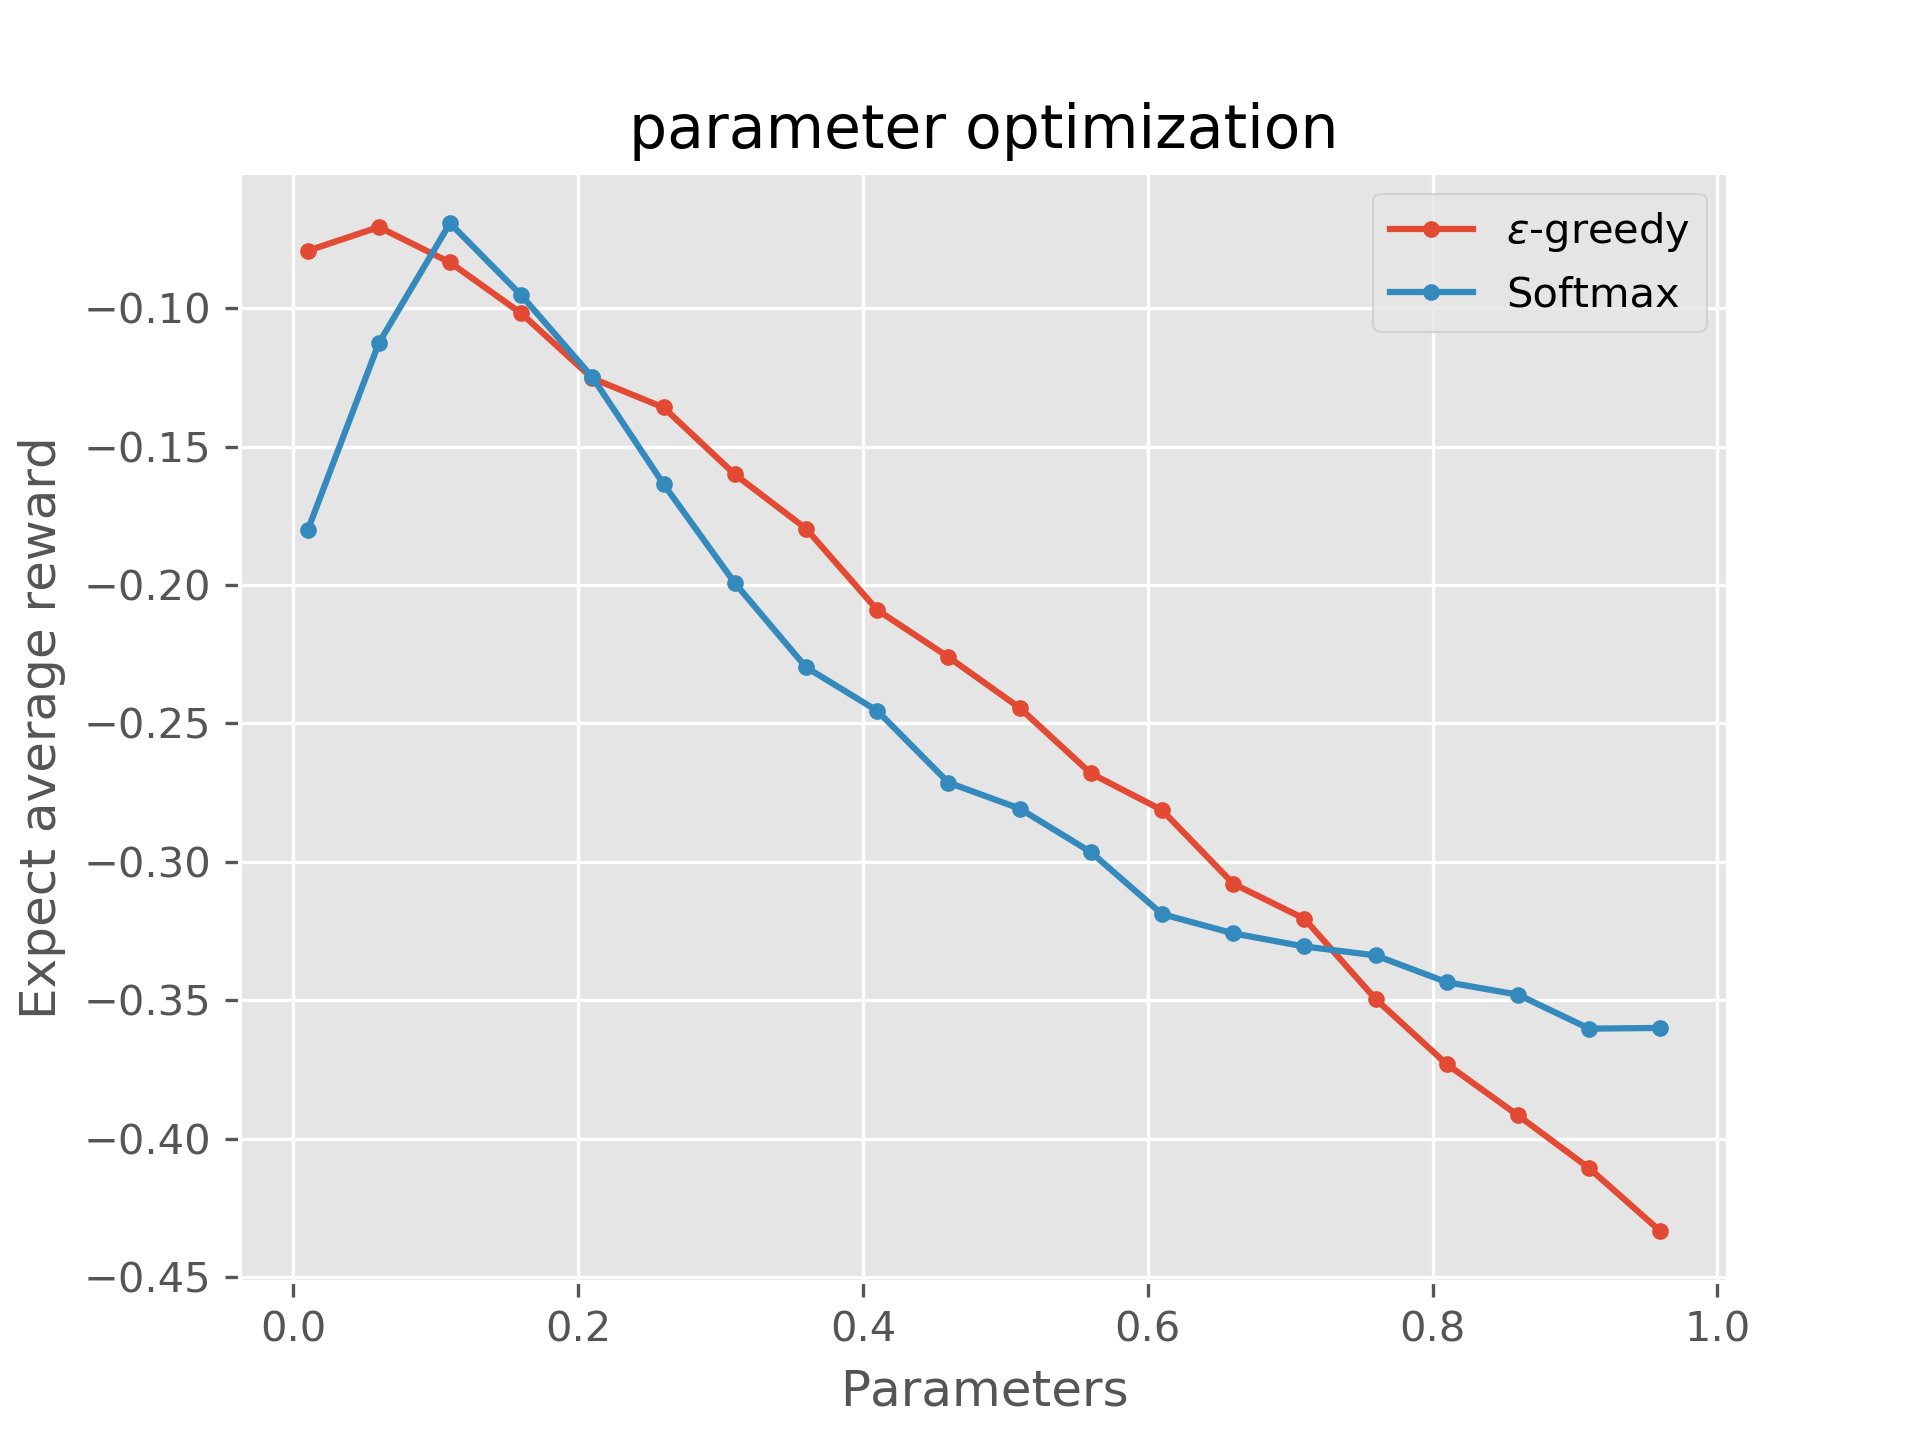
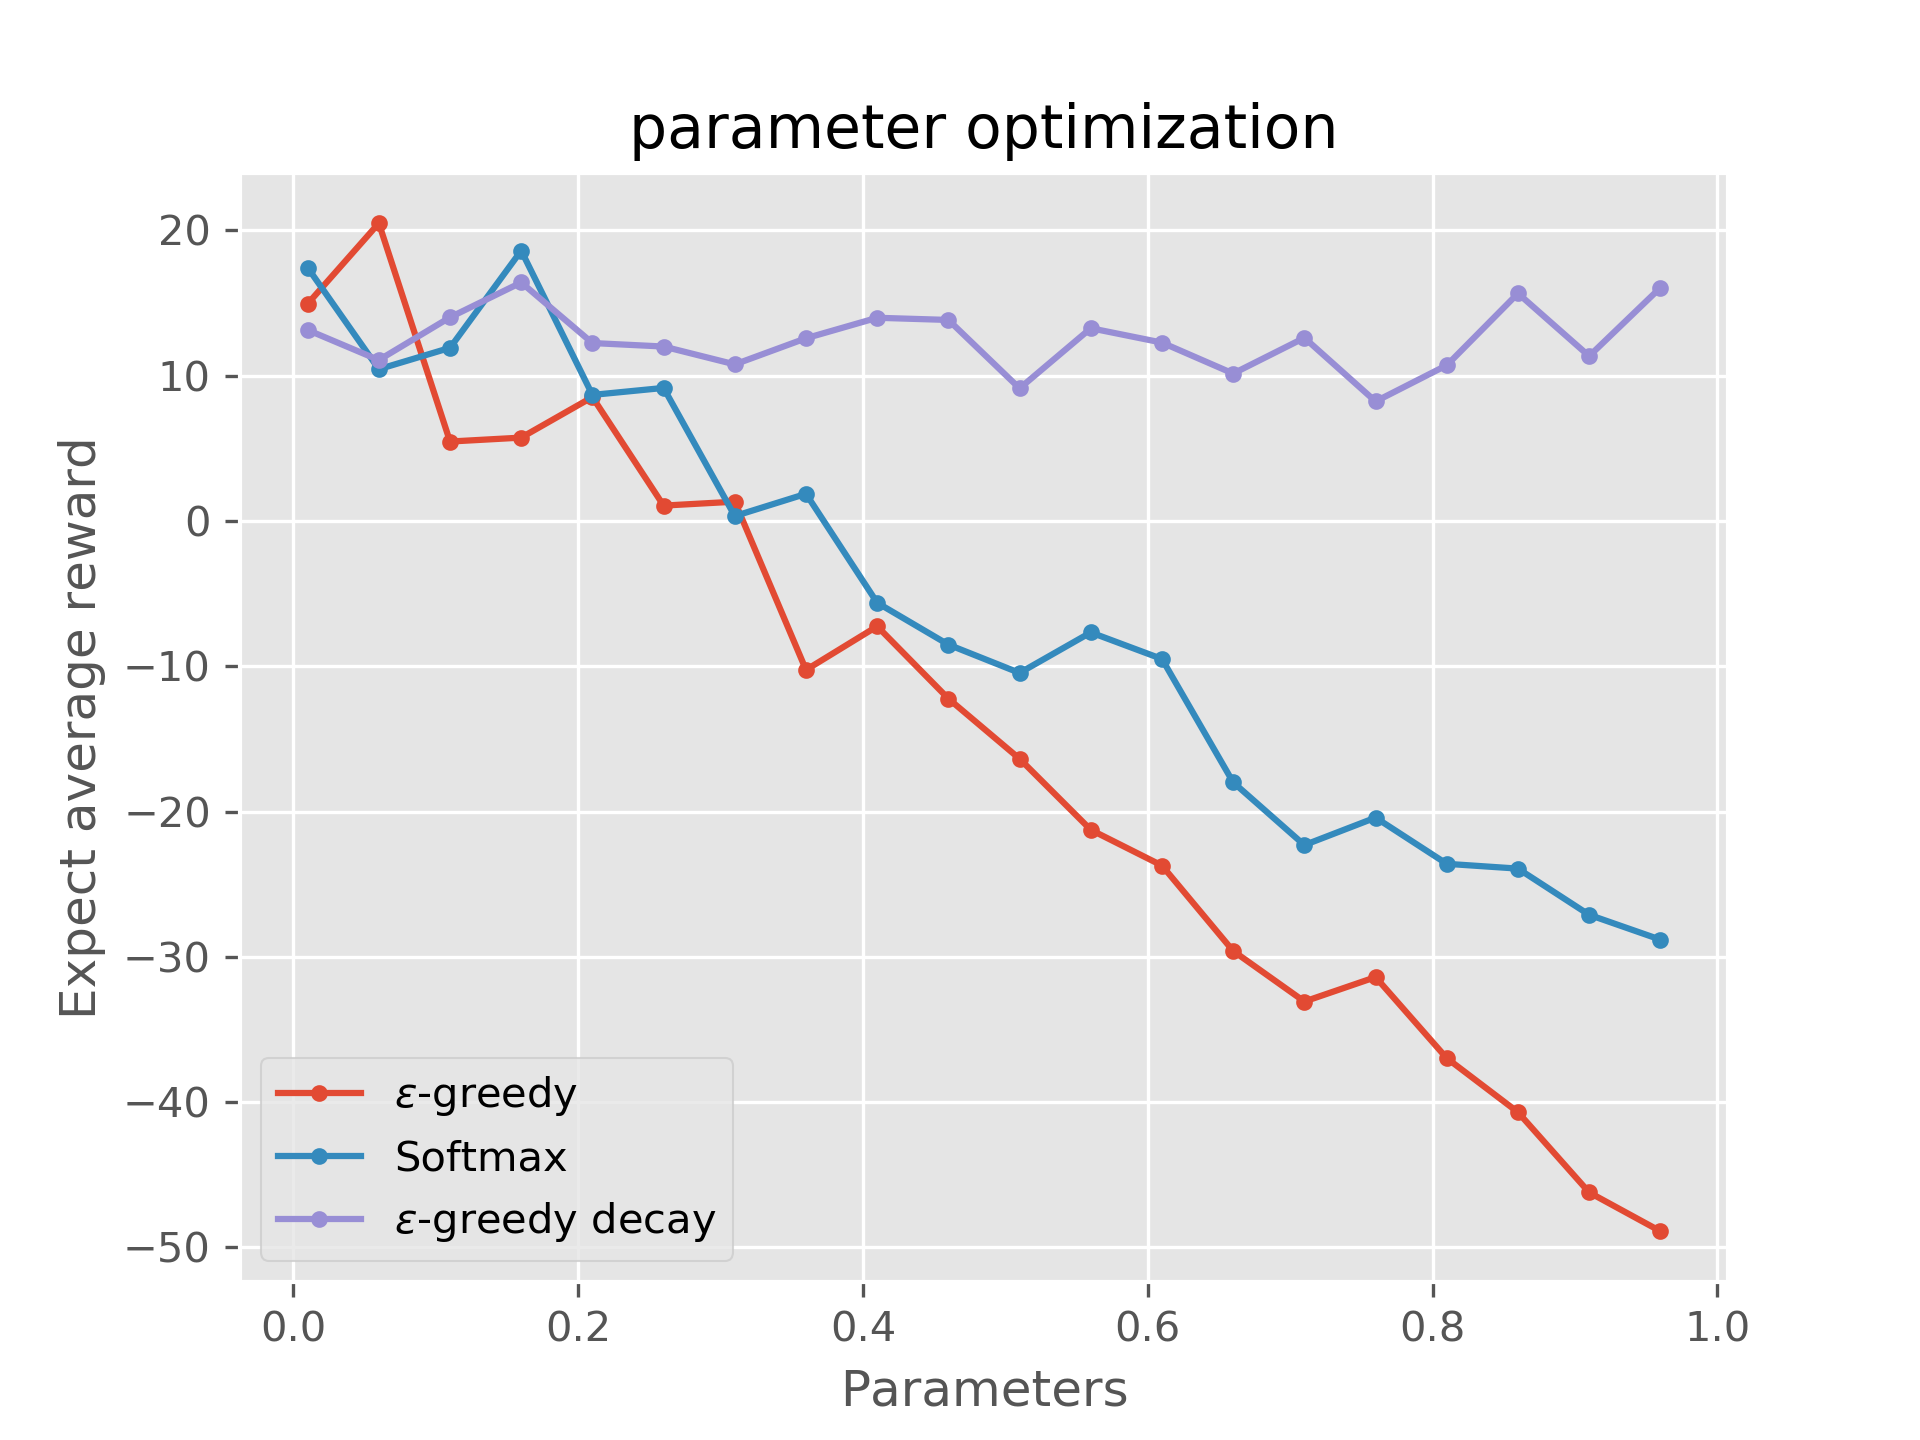
add decay method

diff --git a/k_armed_bandit/k_armed_bandit.py b/k_armed_bandit/k_armed_bandit.py
@@ -40,12 +40,12 @@ class Bandit(object):
             reward [int(default)] -- the reward of kth arm
         """
         prob = [self.distribution[choose_k], 1 - self.distribution[choose_k]]
-        reward = np.random.choice([1.5, -1], p=prob)
+        reward = np.random.choice([2, -1], p=prob)
 
         return reward
 
 
-# ------------------------ How to choose action ------------------------------
+# ------------------------- How to choose action ------------------------------
 class Action_Choose(object):
     def __init__(self, k_arm=10, parameter=0.03):
         # arm's indices
@@ -54,7 +54,7 @@ class Action_Choose(object):
         # initial action parameter
         self.parameter = parameter
 
-    def e_greedy_choose(self, q_estimate):
+    def e_greedy_choose(self, q_estimate, t):
         # e-greedy algorithm
 
         e_greedy = self.parameter
@@ -63,8 +63,8 @@ class Action_Choose(object):
         else:
             choose_k = np.argmax(q_estimate)
         return choose_k
-    
-    def softmax_choose(self, q_estimate):
+
+    def softmax_choose(self, q_estimate, t):
         # Boltzmann distribution of all k arms
 
         tau_temperature = self.parameter
@@ -81,15 +81,22 @@ class Action_Choose(object):
         choose_k = np.random.choice(self.indices, p=boltzmann_distribution)
         return choose_k
 
+    def e_greedy_decay_choose(self, q_estimate, t):
+        # e-greedy decay
+        # e_greedy = self.parameter / (t + 1)**0.5
+        e_greedy = 1 / (t + 1)**0.5
+        if np.random.rand() < e_greedy:
+            choose_k = np.random.choice(self.indices)
+        else:
+            choose_k = np.argmax(q_estimate)
+        return choose_k
+    
 
-# --------------------------- How to play -------------------------------------
+# ------------------------------ Simulate -------------------------------------
 class Simulate_Game(object):
-    def __init__(self, k_arm, reward_func, step_size, method=None):
+    def __init__(self, k_arm, reward_func, method=None):
         self.k_arm = k_arm
         self.reward_func = reward_func
-
-        # step size for each episode
-        self.step_size = step_size
 
         # choose algorithm to simulate the game
         self.action_choose = self.build_method(method)
@@ -110,45 +117,52 @@ class Simulate_Game(object):
         else:
             return method
 
-    def _default_action_method(self, parameter=None, q_estimate=None):
+    def _default_action_method(self, q_estimate=None, t=None):
         # default method to choose action in each step
         # choose action randomly
         choose_k = np.random.choice(self.indices)
         return choose_k
 
-    def simulate_loop(self):
-        # rewards = np.zeros((self.n_episode, self.step_size), dtype=np.float32)
-        # for n in range(self.n_episode):
+    def simulate_loop(self, step_size=100, n_episode=10):
 
-        # reset bandit and initial
-        self.reset_bandit()
-        cumulative_reward = 0
-        cumulative_reward_all = np.zeros((self.step_size, ), dtype=float)
-        average_reward = np.zeros((self.step_size, ), dtype=float)
+        # store n episodes result
+        n_cumulative_reward = np.zeros((n_episode, step_size), dtype=float)
+        n_mean_reward = np.zeros((n_episode, step_size), dtype=float)
 
-        # step loop
-        for t in range(self.step_size):
-            # choose k_th arm
-            choose_k = self.action_choose(self.q_estimate)
+        for i in range(n_episode):
+            # reset bandit and initial
+            self.reset_bandit()
+            cumulative_reward = 0
+            cumulative_reward_all = np.zeros((step_size, ), dtype=float)
+            average_reward = np.zeros((step_size, ), dtype=float)
 
-            # obtain immediate reward
-            immediate_value = self.reward_func(choose_k)
+            # step loop
+            for t in range(step_size):
+                # choose k_th arm
+                choose_k = self.action_choose(self.q_estimate, t)
 
-            # record average reward
-            cumulative_reward += immediate_value
-            cumulative_reward_all[t] = cumulative_reward
-            average_reward[t] = cumulative_reward / (t + 1)
+                # obtain immediate reward
+                immediate_value = self.reward_func(choose_k)
 
-            # update q estimate function average reward
-            self.count_arm_k[choose_k] += 1
-            self.q_estimate[choose_k] += \
-                (immediate_value - self.q_estimate[choose_k]) / self.count_arm_k[choose_k]
-            
-        return cumulative_reward_all, average_reward
+                # record average reward
+                cumulative_reward += immediate_value
+                cumulative_reward_all[t] = cumulative_reward
+                average_reward[t] = cumulative_reward / (t + 1)
+
+                # update q estimate function average reward
+                self.count_arm_k[choose_k] += 1
+                self.q_estimate[choose_k] += \
+                    (immediate_value - self.q_estimate[choose_k]) / self.count_arm_k[choose_k]
+
+            n_cumulative_reward[i, :] = cumulative_reward_all
+            n_mean_reward[i, :] = average_reward
+
+        # return shape: [1, step_size]; [1, step_size]
+        return np.mean(n_mean_reward, axis=0), np.mean(n_cumulative_reward, axis=0)
 
 
 # ------------------------- Test and Optimize ---------------------------------
-def e_greedy_simulate_main():
+def e_greedy_simulate_main(step_size=2000, n_epiosde=100):
     # load k_armed bandit
     bandit = Bandit()
     k_arm = bandit.k_arm
@@ -159,32 +173,21 @@ def e_greedy_simulate_main():
     action_choose = Action_Choose(k_arm, parameter=e_greedy)
     algorithm = action_choose.e_greedy_choose
 
-    # simulation parameters
-    step_size = 1000
-    simulate_g = Simulate_Game(k_arm, reward_func, step_size, method=algorithm)
-
-    # main loop
-    n_episode = 100
-    n_cumulative_reward = np.zeros((n_episode, step_size), dtype=float)
-    n_mean_reward = np.zeros((n_episode, step_size), dtype=float)
-    for i in range(n_episode):
-        cumulative_reward, mean_reward = simulate_g.simulate_loop()
-        n_cumulative_reward[i, :] = cumulative_reward
-        n_mean_reward[i, :] = mean_reward
+    # simulation
+    simulator = Simulate_Game(k_arm, reward_func, method=algorithm)
+    mean_reward, cumulative_reward = simulator.simulate_loop(step_size, n_epiosde)
 
     # pictures
     plt.style.use('ggplot')
     plt.tight_layout()
     fig = plt.figure()
     ax1 = fig.add_subplot(111)
-    p1 = ax1.plot(np.mean(n_mean_reward, axis=0), '.', 
-                  color='r', label=f'average')
+    p1 = ax1.plot(mean_reward, '.', color='r', label=f'average')
     ax1.set_title(f'$\epsilon$-greedy Algorithm ($\epsilon$={action_choose.parameter})')
     ax1.set_ylabel('T-step Average Reward')
     ax1.set_xlabel('T-steps')
     ax2 = ax1.twinx()
-    p2 = ax2.plot(np.mean(n_cumulative_reward, axis=0), '.', 
-                  color='b', label='cumulative')
+    p2 = ax2.plot(cumulative_reward, '.', color='b', label='cumulative')
     ax2.set_ylabel('Cumulative Reward')
     
     # legend
@@ -197,7 +200,7 @@ def e_greedy_simulate_main():
     plt.close()
 
 
-def softmax_simulate_main():
+def softmax_simulate_main(step_size=2000, n_epiosde=100):
     # load k_armed bandit
     bandit = Bandit()
     k_arm = bandit.k_arm
@@ -208,32 +211,21 @@ def softmax_simulate_main():
     action_choose = Action_Choose(k_arm, parameter=tau)
     algorithm = action_choose.softmax_choose
 
-    # simulation parameters
-    step_size = 1000
-    simulate_g = Simulate_Game(k_arm, reward_func, step_size, method=algorithm)
-
-    # main loop
-    n_episode = 100
-    n_cumulative_reward = np.zeros((n_episode, step_size), dtype=float)
-    n_mean_reward = np.zeros((n_episode, step_size), dtype=float)
-    for i in range(n_episode):
-        cumulative_reward, mean_reward = simulate_g.simulate_loop()
-        n_cumulative_reward[i, :] = cumulative_reward
-        n_mean_reward[i, :] = mean_reward
+    # simulation
+    simulator = Simulate_Game(k_arm, reward_func, method=algorithm)
+    mean_reward, cumulative_reward = simulator.simulate_loop(step_size, n_epiosde)
 
     # pictures
     plt.style.use('ggplot')
     plt.tight_layout()
     fig = plt.figure()
     ax1 = fig.add_subplot(111)
-    p1 = ax1.plot(np.mean(n_mean_reward, axis=0), '.', 
-                  color='r', label=f'average')
+    p1 = ax1.plot(mean_reward, '.', color='r', label=f'average')
     ax1.set_title(f'Softmax Algorithm ($\\tau$={action_choose.parameter})')
     ax1.set_ylabel('T-step Average Reward')
     ax1.set_xlabel('T-steps')
     ax2 = ax1.twinx()
-    p2 = ax2.plot(np.mean(n_cumulative_reward, axis=0), '.', 
-                  color='b', label='cumulative')
+    p2 = ax2.plot(cumulative_reward, '.', color='b', label='cumulative')
     ax2.set_ylabel('Cumulative Reward')
     
     # legend
@@ -246,7 +238,45 @@ def softmax_simulate_main():
     plt.close()
 
 
-def optimize_parameters_main():
+def e_greedy_decay_simulate_main(step_size=2000, n_epiosde=100):
+    # load k_armed bandit
+    bandit = Bandit()
+    k_arm = bandit.k_arm
+    reward_func = bandit.reward_func
+
+    # action chosen method
+    e_greedy = 1
+    action_choose = Action_Choose(k_arm, parameter=e_greedy)
+    algorithm = action_choose.e_greedy_decay_choose
+
+    # simulation
+    simulator = Simulate_Game(k_arm, reward_func, method=algorithm)
+    mean_reward, cumulative_reward = simulator.simulate_loop(step_size, n_epiosde)
+    print(simulator.q_estimate)
+    # pictures
+    plt.style.use('ggplot')
+    plt.tight_layout()
+    fig = plt.figure()
+    ax1 = fig.add_subplot(111)
+    p1 = ax1.plot(mean_reward, '.', color='r', label=f'average')
+    ax1.set_title(f'$\epsilon$-greedy decay Algorithm ($\epsilon$={action_choose.parameter})')
+    ax1.set_ylabel('T-step Average Reward')
+    ax1.set_xlabel('T-steps')
+    ax2 = ax1.twinx()
+    p2 = ax2.plot(cumulative_reward, '.', color='b', label='cumulative')
+    ax2.set_ylabel('Cumulative Reward')
+    
+    # legend
+    p_s = p1 + p2
+    labs = [p.get_label() for p in p_s]
+    ax2.legend(p_s, labs, loc='center right')
+
+    # save picture
+    plt.savefig('./images/e_greedy_decay_simulate.png', dpi=300)
+    plt.close()
+
+
+def optimize_parameters_main(step_size=200, n_epiosde=100):
     # load k_armed bandit
     bandit = Bandit()
     k_arm = bandit.k_arm
@@ -254,45 +284,31 @@ def optimize_parameters_main():
 
     # action chosen method
     action_choose = Action_Choose(k_arm)
+
+    # parameter range
+    parameters = np.arange(0.01, 1.01, 0.05)
     
-    # simulation parameters
-    step_size = 1000
+    # initial simulator
+    e_greedy_simulator = Simulate_Game(k_arm, reward_func, method=action_choose.e_greedy_choose)
+    softmax_simulator = Simulate_Game(k_arm, reward_func, method=action_choose.softmax_choose)
+    e_greedy_decay_simulator = Simulate_Game(k_arm, reward_func, method=action_choose.e_greedy_decay_choose)
+    simulators = [e_greedy_simulator, softmax_simulator, e_greedy_decay_simulator]
 
-    # e_greedy
-    e_greedy = np.arange(0.01, 1.01, 0.05)
-    algorithm = action_choose.e_greedy_choose
-    simulate_g = Simulate_Game(k_arm, reward_func, step_size, method=algorithm)
-
-    expect_reward_e_greedy = np.zeros((len(e_greedy), ), dtype=float)
-    n_episode = 100
-    for i in range(len(e_greedy)):
-        action_choose.parameter = e_greedy[i]
-        n_episode_reward = 0
-        for j in range(n_episode):
-            _, mean_reward = simulate_g.simulate_loop()
-            n_episode_reward += mean_reward[-1]
-        expect_reward_e_greedy[i] = n_episode_reward / n_episode
-
-    # softmax
-    tau = np.arange(0.01, 1.01, 0.05)
-    algorithm = action_choose.softmax_choose
-    simulate_g = Simulate_Game(k_arm, reward_func, step_size, method=algorithm)
-
-    expect_reward_softmax = np.zeros((len(tau), ), dtype=float)
-    n_episode = 100
-    for i in range(len(tau)):
-        action_choose.parameter = tau[i]
-        n_episode_reward = 0
-        for j in range(n_episode):
-            _, mean_reward = simulate_g.simulate_loop()
-            n_episode_reward += mean_reward[-1]
-        expect_reward_softmax[i] = n_episode_reward / n_episode
+    # initial average reward container and cumulative reward container
+    all_cumulative_reward = np.zeros((len(simulators), len(parameters)), dtype=float)
+    
+    for n_sim in range(len(simulators)):
+        for i in range(len(parameters)):
+            action_choose.parameter = parameters[i]
+            _, cumulative_reward = simulators[n_sim].simulate_loop(step_size, n_epiosde)
+            all_cumulative_reward[n_sim, i] = cumulative_reward[-1]
 
     # save result
     plt.style.use('ggplot')
     plt.tight_layout()
-    plt.plot(e_greedy, expect_reward_e_greedy, '.-', label='$\epsilon$-greedy')
-    plt.plot(tau, expect_reward_softmax, '.-', label='Softmax')
+    plt.plot(parameters, all_cumulative_reward[0], '.-', label='$\epsilon$-greedy')
+    plt.plot(parameters, all_cumulative_reward[1], '.-', label='Softmax')
+    plt.plot(parameters, all_cumulative_reward[2], '.-', label='$\epsilon$-greedy decay')
     plt.title('parameter optimization')
     plt.ylabel('Expect average reward')
     plt.xlabel('Parameters')
@@ -304,4 +320,6 @@ def optimize_parameters_main():
 if __name__ == "__main__":
     e_greedy_simulate_main()
     # softmax_simulate_main()
-    # optimize_parameters_main()
+    # e_greedy_decay_simulate_main()
+    optimize_parameters_main()
+    print('End!')
